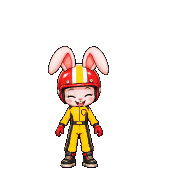
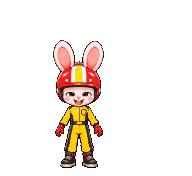
feat: smoother rabbit nod frames

Changed region(s): [[0.25, 0.2273, 0.5938, 0.625]]

diff --git a/design/rabbit-forge/preview.html b/design/rabbit-forge/preview.html
@@ -3,7 +3,7 @@ body{margin:0;background:#0D0F13;color:#F4F4F1;font-family:sans-serif}h1{font-si
 main{display:flex;flex-wrap:wrap;gap:12px;padding:0 24px 24px}figure{margin:0;text-align:center}
 canvas{width:384px;height:352px;image-rendering:pixelated}figcaption{color:#8A909B;font-size:15px}
 </style></head><body><h1>토끼 레이서 동작 9종 (2배 확대)</h1><main><figure><canvas data-a="IDLE" width="192" height="176"></canvas><figcaption>idle</figcaption></figure><figure><canvas data-a="WIN" width="192" height="176"></canvas><figcaption>win</figcaption></figure><figure><canvas data-a="OVERTAKE" width="192" height="176"></canvas><figcaption>overtake</figcaption></figure><figure><canvas data-a="PIT" width="192" height="176"></canvas><figcaption>pit</figcaption></figure><figure><canvas data-a="RADIO" width="192" height="176"></canvas><figcaption>radio</figcaption></figure><figure><canvas data-a="LOAD" width="192" height="176"></canvas><figcaption>load</figcaption></figure><figure><canvas data-a="WELCOME" width="192" height="176"></canvas><figcaption>welcome</figcaption></figure><figure><canvas data-a="NOD" width="192" height="176"></canvas><figcaption>nod</figcaption></figure><figure><canvas data-a="POINT" width="192" height="176"></canvas><figcaption>point</figcaption></figure></main><script>
-const M={"IDLE": {"frames": ["rabbit_idle_00.png", "rabbit_idle_01.png", "rabbit_idle_02.png", "rabbit_idle_03.png"], "durations_ms": [500, 500, 500, 140], "loop": true}, "WIN": {"frames": ["rabbit_win_00.png", "rabbit_win_01.png", "rabbit_win_02.png", "rabbit_win_03.png", "rabbit_win_04.png", "rabbit_win_05.png", "rabbit_win_06.png", "rabbit_win_07.png", "rabbit_win_08.png", "rabbit_win_09.png"], "durations_ms": [110, 100, 60, 60, 70, 110, 60, 60, 90, 130], "loop": true}, "OVERTAKE": {"frames": ["rabbit_overtake_00.png", "rabbit_overtake_01.png", "rabbit_overtake_02.png", "rabbit_overtake_03.png", "rabbit_overtake_04.png", "rabbit_overtake_05.png", "rabbit_overtake_06.png", "rabbit_overtake_07.png"], "durations_ms": [70, 70, 70, 70, 70, 70, 70, 70], "loop": true}, "PIT": {"frames": ["rabbit_pit_00.png"], "durations_ms": [800], "loop": true}, "RADIO": {"frames": ["rabbit_radio_00.png", "rabbit_radio_01.png"], "durations_ms": [220, 220], "loop": true}, "LOAD": {"frames": ["rabbit_load_00.png", "rabbit_load_01.png", "rabbit_load_02.png", "rabbit_load_03.png", "rabbit_load_04.png", "rabbit_load_05.png", "rabbit_load_06.png", "rabbit_load_07.png"], "durations_ms": [90, 90, 90, 90, 90, 90, 90, 90], "loop": true}, "WELCOME": {"frames": ["rabbit_welcome_00.png", "rabbit_welcome_01.png", "rabbit_welcome_02.png", "rabbit_welcome_03.png", "rabbit_welcome_04.png", "rabbit_welcome_05.png"], "durations_ms": [110, 110, 110, 110, 110, 110], "loop": true}, "NOD": {"frames": ["rabbit_nod_00.png", "rabbit_nod_01.png", "rabbit_nod_02.png", "rabbit_nod_03.png", "rabbit_nod_04.png", "rabbit_nod_05.png"], "durations_ms": [110, 110, 110, 110, 110, 110], "loop": true}, "POINT": {"frames": ["rabbit_point_00.png"], "durations_ms": [800], "loop": true}};
+const M={"IDLE": {"frames": ["rabbit_idle_00.png", "rabbit_idle_01.png", "rabbit_idle_02.png", "rabbit_idle_03.png"], "durations_ms": [500, 500, 500, 140], "loop": true}, "WIN": {"frames": ["rabbit_win_00.png", "rabbit_win_01.png", "rabbit_win_02.png", "rabbit_win_03.png", "rabbit_win_04.png", "rabbit_win_05.png", "rabbit_win_06.png", "rabbit_win_07.png", "rabbit_win_08.png", "rabbit_win_09.png"], "durations_ms": [110, 100, 60, 60, 70, 110, 60, 60, 90, 130], "loop": true}, "OVERTAKE": {"frames": ["rabbit_overtake_00.png", "rabbit_overtake_01.png", "rabbit_overtake_02.png", "rabbit_overtake_03.png", "rabbit_overtake_04.png", "rabbit_overtake_05.png", "rabbit_overtake_06.png", "rabbit_overtake_07.png"], "durations_ms": [70, 70, 70, 70, 70, 70, 70, 70], "loop": true}, "PIT": {"frames": ["rabbit_pit_00.png"], "durations_ms": [800], "loop": true}, "RADIO": {"frames": ["rabbit_radio_00.png", "rabbit_radio_01.png"], "durations_ms": [220, 220], "loop": true}, "LOAD": {"frames": ["rabbit_load_00.png", "rabbit_load_01.png", "rabbit_load_02.png", "rabbit_load_03.png", "rabbit_load_04.png", "rabbit_load_05.png", "rabbit_load_06.png", "rabbit_load_07.png"], "durations_ms": [90, 90, 90, 90, 90, 90, 90, 90], "loop": true}, "WELCOME": {"frames": ["rabbit_welcome_00.png", "rabbit_welcome_01.png", "rabbit_welcome_02.png", "rabbit_welcome_03.png", "rabbit_welcome_04.png", "rabbit_welcome_05.png"], "durations_ms": [110, 110, 110, 110, 110, 110], "loop": true}, "NOD": {"frames": ["rabbit_nod_00.png", "rabbit_nod_01.png", "rabbit_nod_02.png", "rabbit_nod_03.png", "rabbit_nod_04.png", "rabbit_nod_05.png", "rabbit_nod_06.png", "rabbit_nod_07.png"], "durations_ms": [310, 90, 90, 90, 90, 90, 90, 90], "loop": true}, "POINT": {"frames": ["rabbit_point_00.png"], "durations_ms": [800], "loop": true}};
 document.querySelectorAll('canvas').forEach(c=>{const m=M[c.dataset.a],g=c.getContext('2d');g.imageSmoothingEnabled=false;
 const im=m.frames.map(f=>{const i=new Image();i.src='frames/'+f;return i});let k=0;
 const step=()=>{g.clearRect(0,0,c.width,c.height);if(im[k].complete)g.drawImage(im[k],0,0);const d=m.durations_ms[k];k=(k+1)%im.length;setTimeout(step,d)};step()});

diff --git a/app/src/main/java/io/github/ddayoung03/safetyleague/ui/view/RabbitFrames.kt b/app/src/main/java/io/github/ddayoung03/safetyleague/ui/view/RabbitFrames.kt
@@ -13,6 +13,6 @@ internal object RabbitFrames {
     val RADIO = RabbitClip(listOf(R.drawable.rabbit_radio_00, R.drawable.rabbit_radio_01), listOf(220, 220), true)
     val LOAD = RabbitClip(listOf(R.drawable.rabbit_load_00, R.drawable.rabbit_load_01, R.drawable.rabbit_load_02, R.drawable.rabbit_load_03, R.drawable.rabbit_load_04, R.drawable.rabbit_load_05, R.drawable.rabbit_load_06, R.drawable.rabbit_load_07), listOf(90, 90, 90, 90, 90, 90, 90, 90), true)
     val WELCOME = RabbitClip(listOf(R.drawable.rabbit_welcome_00, R.drawable.rabbit_welcome_01, R.drawable.rabbit_welcome_02, R.drawable.rabbit_welcome_03, R.drawable.rabbit_welcome_04, R.drawable.rabbit_welcome_05), listOf(110, 110, 110, 110, 110, 110), true)
-    val NOD = RabbitClip(listOf(R.drawable.rabbit_nod_00, R.drawable.rabbit_nod_01, R.drawable.rabbit_nod_02, R.drawable.rabbit_nod_03, R.drawable.rabbit_nod_04, R.drawable.rabbit_nod_05), listOf(110, 110, 110, 110, 110, 110), true)
+    val NOD = RabbitClip(listOf(R.drawable.rabbit_nod_00, R.drawable.rabbit_nod_01, R.drawable.rabbit_nod_02, R.drawable.rabbit_nod_03, R.drawable.rabbit_nod_04, R.drawable.rabbit_nod_05, R.drawable.rabbit_nod_06, R.drawable.rabbit_nod_07), listOf(310, 90, 90, 90, 90, 90, 90, 90), true)
     val POINT = RabbitClip(listOf(R.drawable.rabbit_point_00), listOf(800), true)
 }

diff --git a/design/rabbit-forge/gen_fixes.py b/design/rabbit-forge/gen_fixes.py
@@ -20,6 +20,14 @@ LEGS = (
     'pixel style and framing exactly the same. Change only the legs and boots. {change} '
     'Solid flat magenta background #FF00FF, no shadow, no text.'
 )
+TILT = (
+    'The first attached image is the rest pose and the second is further along the same bow, both the same character. Draw the first '
+    'image again with only the head and ears tilted forward, {change} Everything from the collar down stays exactly as '
+    'in the first image: torso, arms, gloves, legs, boots, position. The head keeps the same size, the same face and '
+    'the same helmet; it pivots at the neck, it does not move up and the neck does not get longer. The chin moves '
+    'toward the chest and the top of the helmet slowly comes into view. Ears follow a little behind the head. '
+    'Same scale, pixel style and framing. Solid flat magenta background #FF00FF, no shadow, no text.'
+)
 FIXES = [
     ('radio_2b', 'radio_1', 'Change only the mouth: closed small smile. Eyes stay exactly as they are, looking straight ahead.'),
     ('load_0', 'load_2', 'Change only the right arm and the flag: arm tilted a little to the left, flag leaning slightly left.'),
@@ -31,6 +39,9 @@ FIXES = [
     ('pit_2', 'pit_1', 'Change only the ears: both drooping ears swing slightly outward. Eyes and board unchanged.'),
     ('point_2', 'point_1', 'Change only the pointing arm: raised slightly higher.'),
     ('overtake_a', 'overtake_1', 'Swap which leg is in front: the leg nearest the viewer, with the black side stripe, must now sweep backward to the lower left, drawn on top of the other leg at the hip, its boot behind the body. The far leg, partly hidden behind it, now reaches forward to the lower right. Same stride length.'),
+    ('nod_mid', 'nod_2+nod_1', 'about one quarter of the way from the rest pose to the full bow. Eyes still open.'),
+    ('nod_q1', 'nod_2+nod_mid', 'exactly halfway between the two images: a slight tilt, ears still tall. Eyes still open.'),
+    ('nod_h', 'nod_mid', 'Change only the eyes: both eyes half closed in a gentle friendly smile, soft curved upper lids, no eyelashes, same eye size and spacing. The mouth stays the same.'),
     ('overtake_b', 'overtake_1', 'Passing pose: legs passing under the body, the lead knee raised high, the other leg straight below.'),
 ]
 
@@ -45,8 +56,10 @@ def run(name, ref, change):
         print('skip', name, flush=True)
         return True
     prompt = HERE / 'prompts' / f'{name}.txt'
-    prompt.write_text((LEGS if name.startswith('overtake') else BASE).format(change=change), encoding='utf8')
-    cmd = [sys.executable, str(ROUTE), 'image', '--prompt-file', str(prompt), '--reference', str(src(ref)),
+    base = TILT if name in ('nod_mid', 'nod_q1') else LEGS if name.startswith('overtake') else BASE
+    prompt.write_text(base.format(change=change), encoding='utf8')
+    refs = [arg for part in ref.split('+') for arg in ('--reference', str(src(part)))]
+    cmd = [sys.executable, str(ROUTE), 'image', '--prompt-file', str(prompt), *refs,
            '--size', '1024x1024', '--route', 'codex-cli', '--out-dir', str(out)]
     shutil.rmtree(out, ignore_errors=True)
     try:
@@ -63,7 +76,7 @@ want = sys.argv[1:]
 for name, ref, change in FIXES:
     if want and name not in want:
         continue
-    if not src(ref).exists():
+    if not all(src(part).exists() for part in ref.split('+')):
         print('wait', name, 'needs', ref, flush=True)
         continue
     if not run(name, ref, change) :

diff --git a/design/rabbit-forge/inbetween.py b/design/rabbit-forge/inbetween.py
@@ -35,13 +35,15 @@ WAVE_RANGE = (6, -18)
 WAVE_POSES = [0, 1, 2, 3, 2, 1]
 HEAD_ZONE = (62, 104)  # x from, y up to: the hand passes behind the helmet, never over it
 
-# NOD: the head bows, it does not slide. nod_1 is the drawn bow; moved onto nod_2's body it only ever covers the
-# neck and collar, so the rest pose stays the highest frame and no longer neck can appear.
+# NOD: the head tips, it does not slide. Rest is nod_2, half is nod_h, full is nod_1, all drawn poses laid on nod_2's
+# body. Quarter has no usable drawing, so it is the rest head foreshortened row by row: crown taller, face lower,
+# chin down onto the neck. Every head only covers the neck and collar, so rest stays the highest frame.
+NOD_X = -31           # whole-pixel shift that lands the drawn poses' belt and legs on nod_2's
 NOD_REST_ROW = 101    # last head row of nod_2
-NOD_BOW_ROW = 105     # last head row of nod_1 once registered
-NOD_BOW_X = -31       # whole-pixel shift that lands nod_1's belt and legs on nod_2's
-NOD_HALF = 2          # the half-way frame sits this many pixels above the full bow
-NOD_LIFT = [None, NOD_HALF, 0, 0, NOD_HALF, None]  # None is the rest pose
+NOD_DRAWN_ROW = {'nod_h': 104, 'nod_1': 105}
+NOD_HALF_DROP = 1     # puts nod_h's crown on the rest crown row
+NOD_EAR_LAG = 4       # pixels the rest ears sit low on the quarter frame coming back up
+NOD_TIP = ((62, 80, 103), (62, 76, 101))  # quarter: output rows, then the rest rows they come from
 
 # WIN: whole-pixel path through the three approved poses. Each row: pose, rise, ears, flag, squash.
 # Ears and flag trail the jump by pixels; squash sinks everything above WIN_WAIST into the legs.
@@ -222,8 +224,20 @@ def nod_frames(done):
     rest = pack(done['nod_2'])
     body = rest.copy()
     body[:NOD_REST_ROW + 1] = 0
-    bow = rows(np.roll(pack(done['nod_1']), NOD_BOW_X, 1), NOD_BOW_ROW)
-    return [unpack(rest if lift is None else over(body, shift(bow, -lift))) for lift in NOD_LIFT]
+
+    def drawn(n):
+        return rows(np.roll(pack(done[n]), NOD_X, 1), NOD_DRAWN_ROW[n])
+
+    half = shift(drawn('nod_h'), NOD_HALF_DROP)
+    full = drawn('nod_1')
+    out = np.arange(NOD_TIP[0][0], NOD_TIP[0][-1] + 1)
+    tipped = rows(rest, NOD_TIP[0][0] - 1)
+    tipped[out] = rest[np.interp(out, *NOD_TIP).round().astype(int)]
+    # Ears run one frame behind the head: still up on the way down, still low on the way back up.
+    ears = rows(rest, NOD_TIP[0][0] - 1)
+    back = over(shift(ears, NOD_EAR_LAG), np.where(ears != 0, 0, tipped))
+    heads = [None, tipped, half, full, full, half, back, None]
+    return [unpack(rest if h is None else over(body, h)) for h in heads]
 
 
 def win_frames(done):

diff --git a/design/rabbit-forge/build_sprites.py b/design/rabbit-forge/build_sprites.py
@@ -24,12 +24,12 @@ ACTIONS = {
     'radio': (['radio_1', 'radio_2'], [220, 220], True),
     'load': (['load_1', 'load_2'], [90] * 8, True),
     'welcome': (['welcome_2', 'master'], [110] * 6, True),
-    'nod': (['nod_1', 'nod_2'], [110] * 6, True),
+    'nod': (['nod_1', 'nod_2'], [310] + [90] * 7, True),
     'point': (['point_1'], [800], True),
 }
 AIRBORNE = {'win_jump': 22}
 RUN_BOB = {'overtake_1': 0, 'overtake_2': 0, 'overtake_3': 0, 'overtake_4': 0, 'overtake_a': 0, 'overtake_b': 0}
-RUN_ONLY = ['overtake_a', 'overtake_b']  # kept out of the palette input so the other actions stay byte-identical
+EXTRA = ['overtake_a', 'overtake_b', 'nod_h']  # kept out of the palette input so the other actions stay byte-identical
 HOLD_HEAD = {'radio_1', 'radio_2', 'load_1', 'load_2', 'welcome_2', 'master', 'idle_blink'}
 
 
@@ -81,7 +81,7 @@ def main():
     sheet = Image.fromarray(px.reshape(-1, 1, 3), 'RGB')
     pal = sheet.quantize(colors=COLORS, method=Image.Quantize.MEDIANCUT, dither=Image.Dither.NONE)
 
-    for n in RUN_ONLY:
+    for n in EXTRA:
         small[n] = shrink(n)
 
     out = HERE / 'frames'
@@ -109,7 +109,7 @@ def main():
         c.paste(rgb, (x, y), rgb)
         return c
 
-    done = {n: finish(n) for n in names + RUN_ONLY}
+    done = {n: finish(n) for n in names + EXTRA}
     made = inbetween.build(done)
     meta = {}
     shown = []
